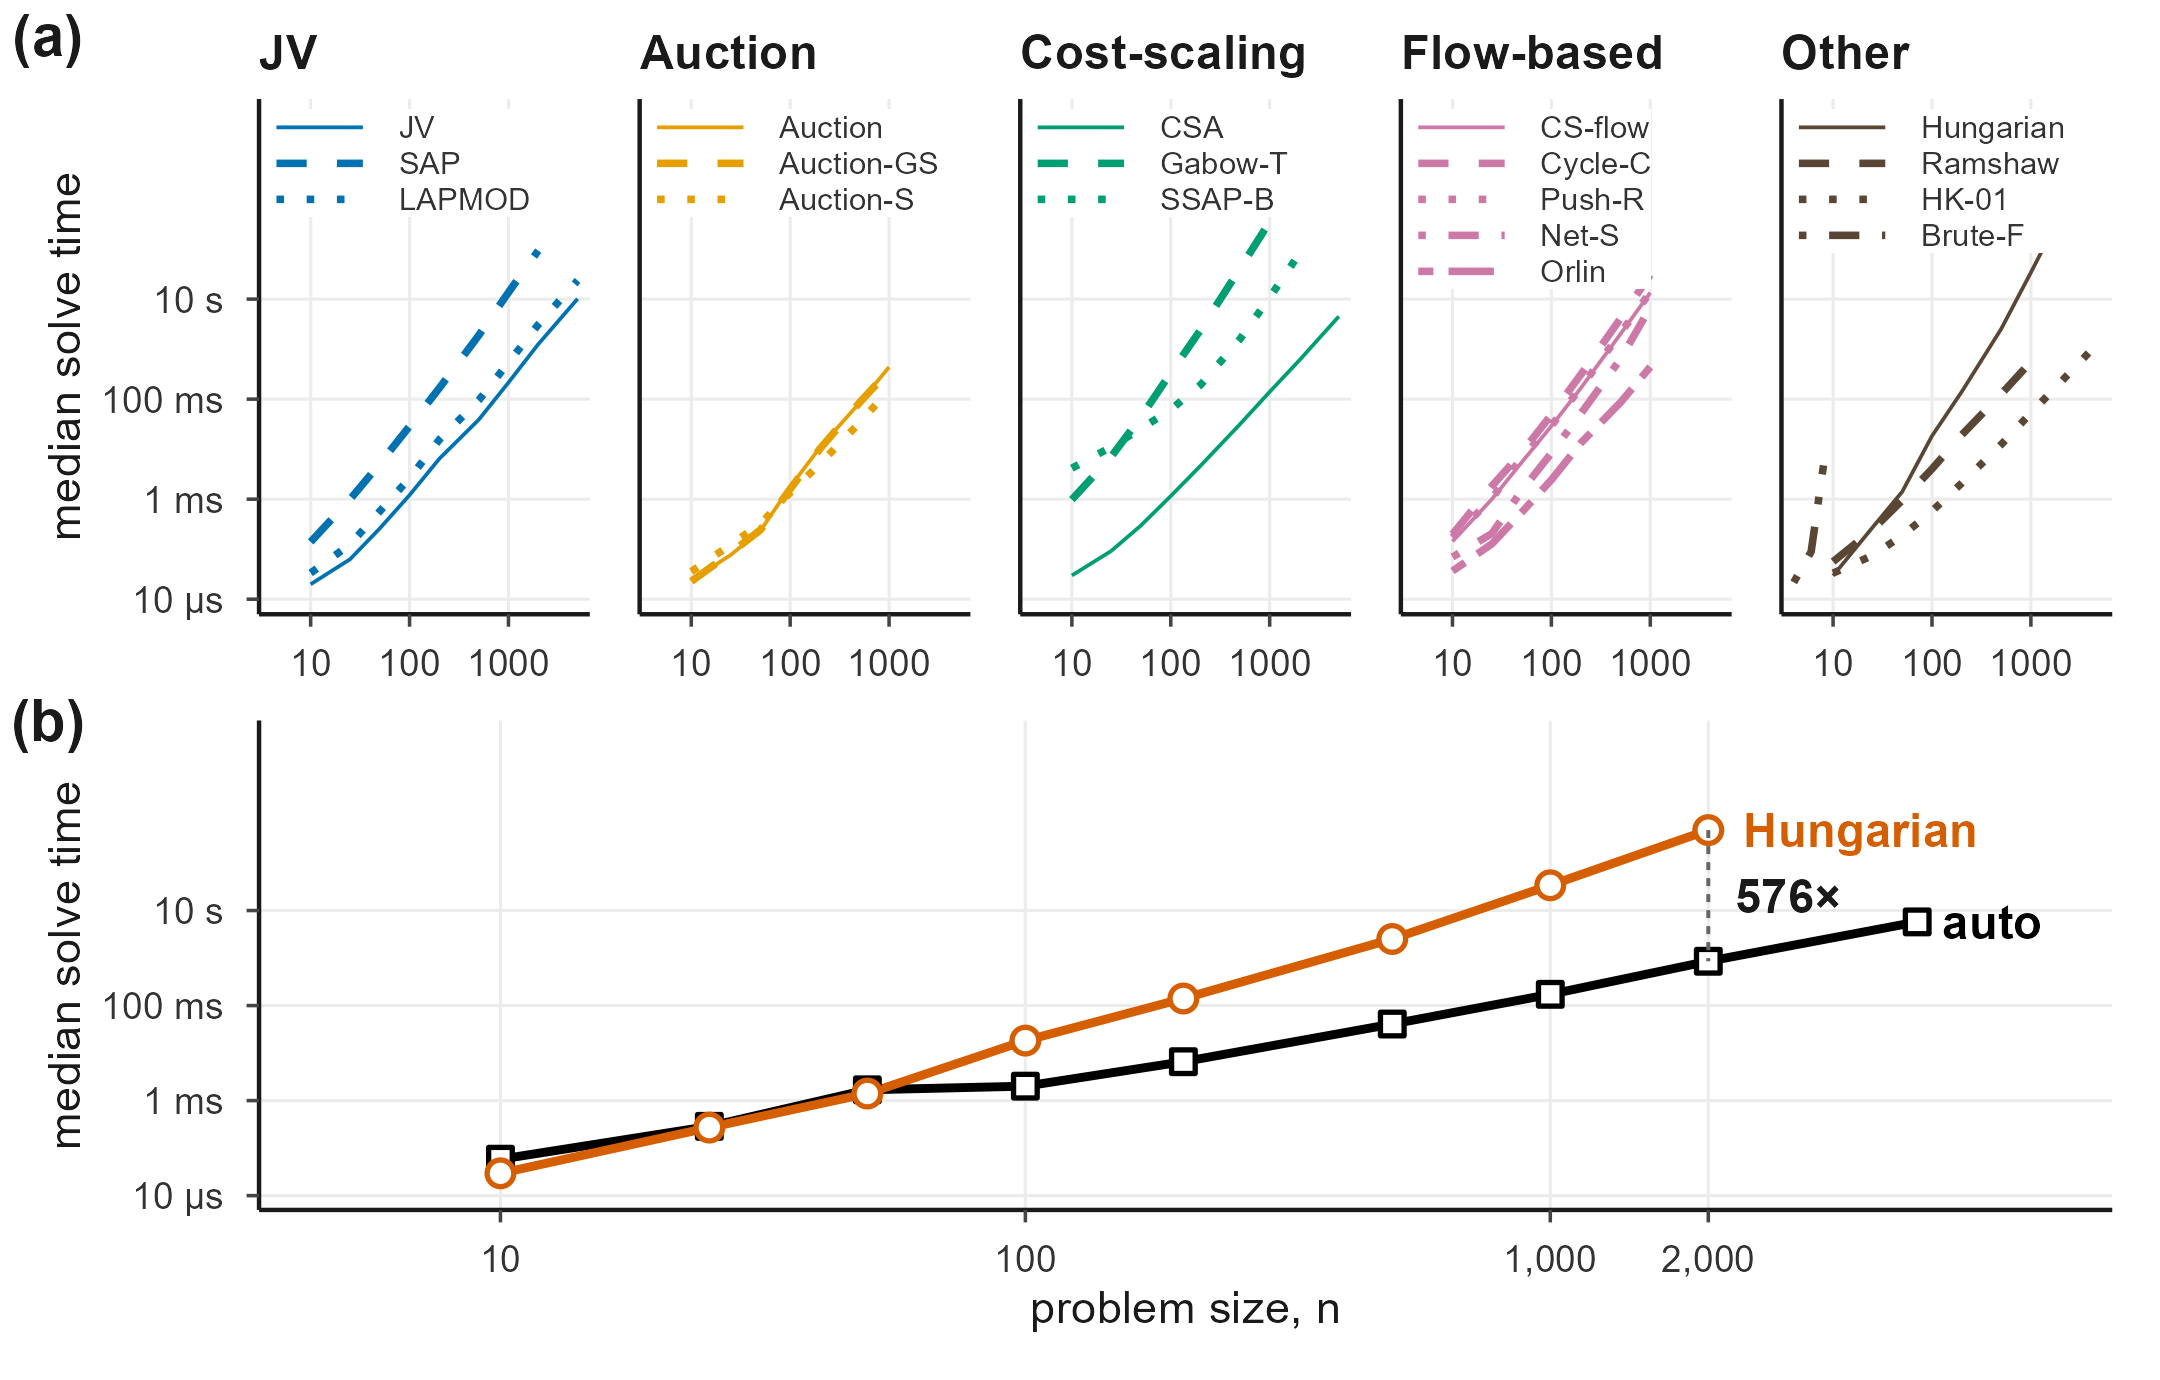
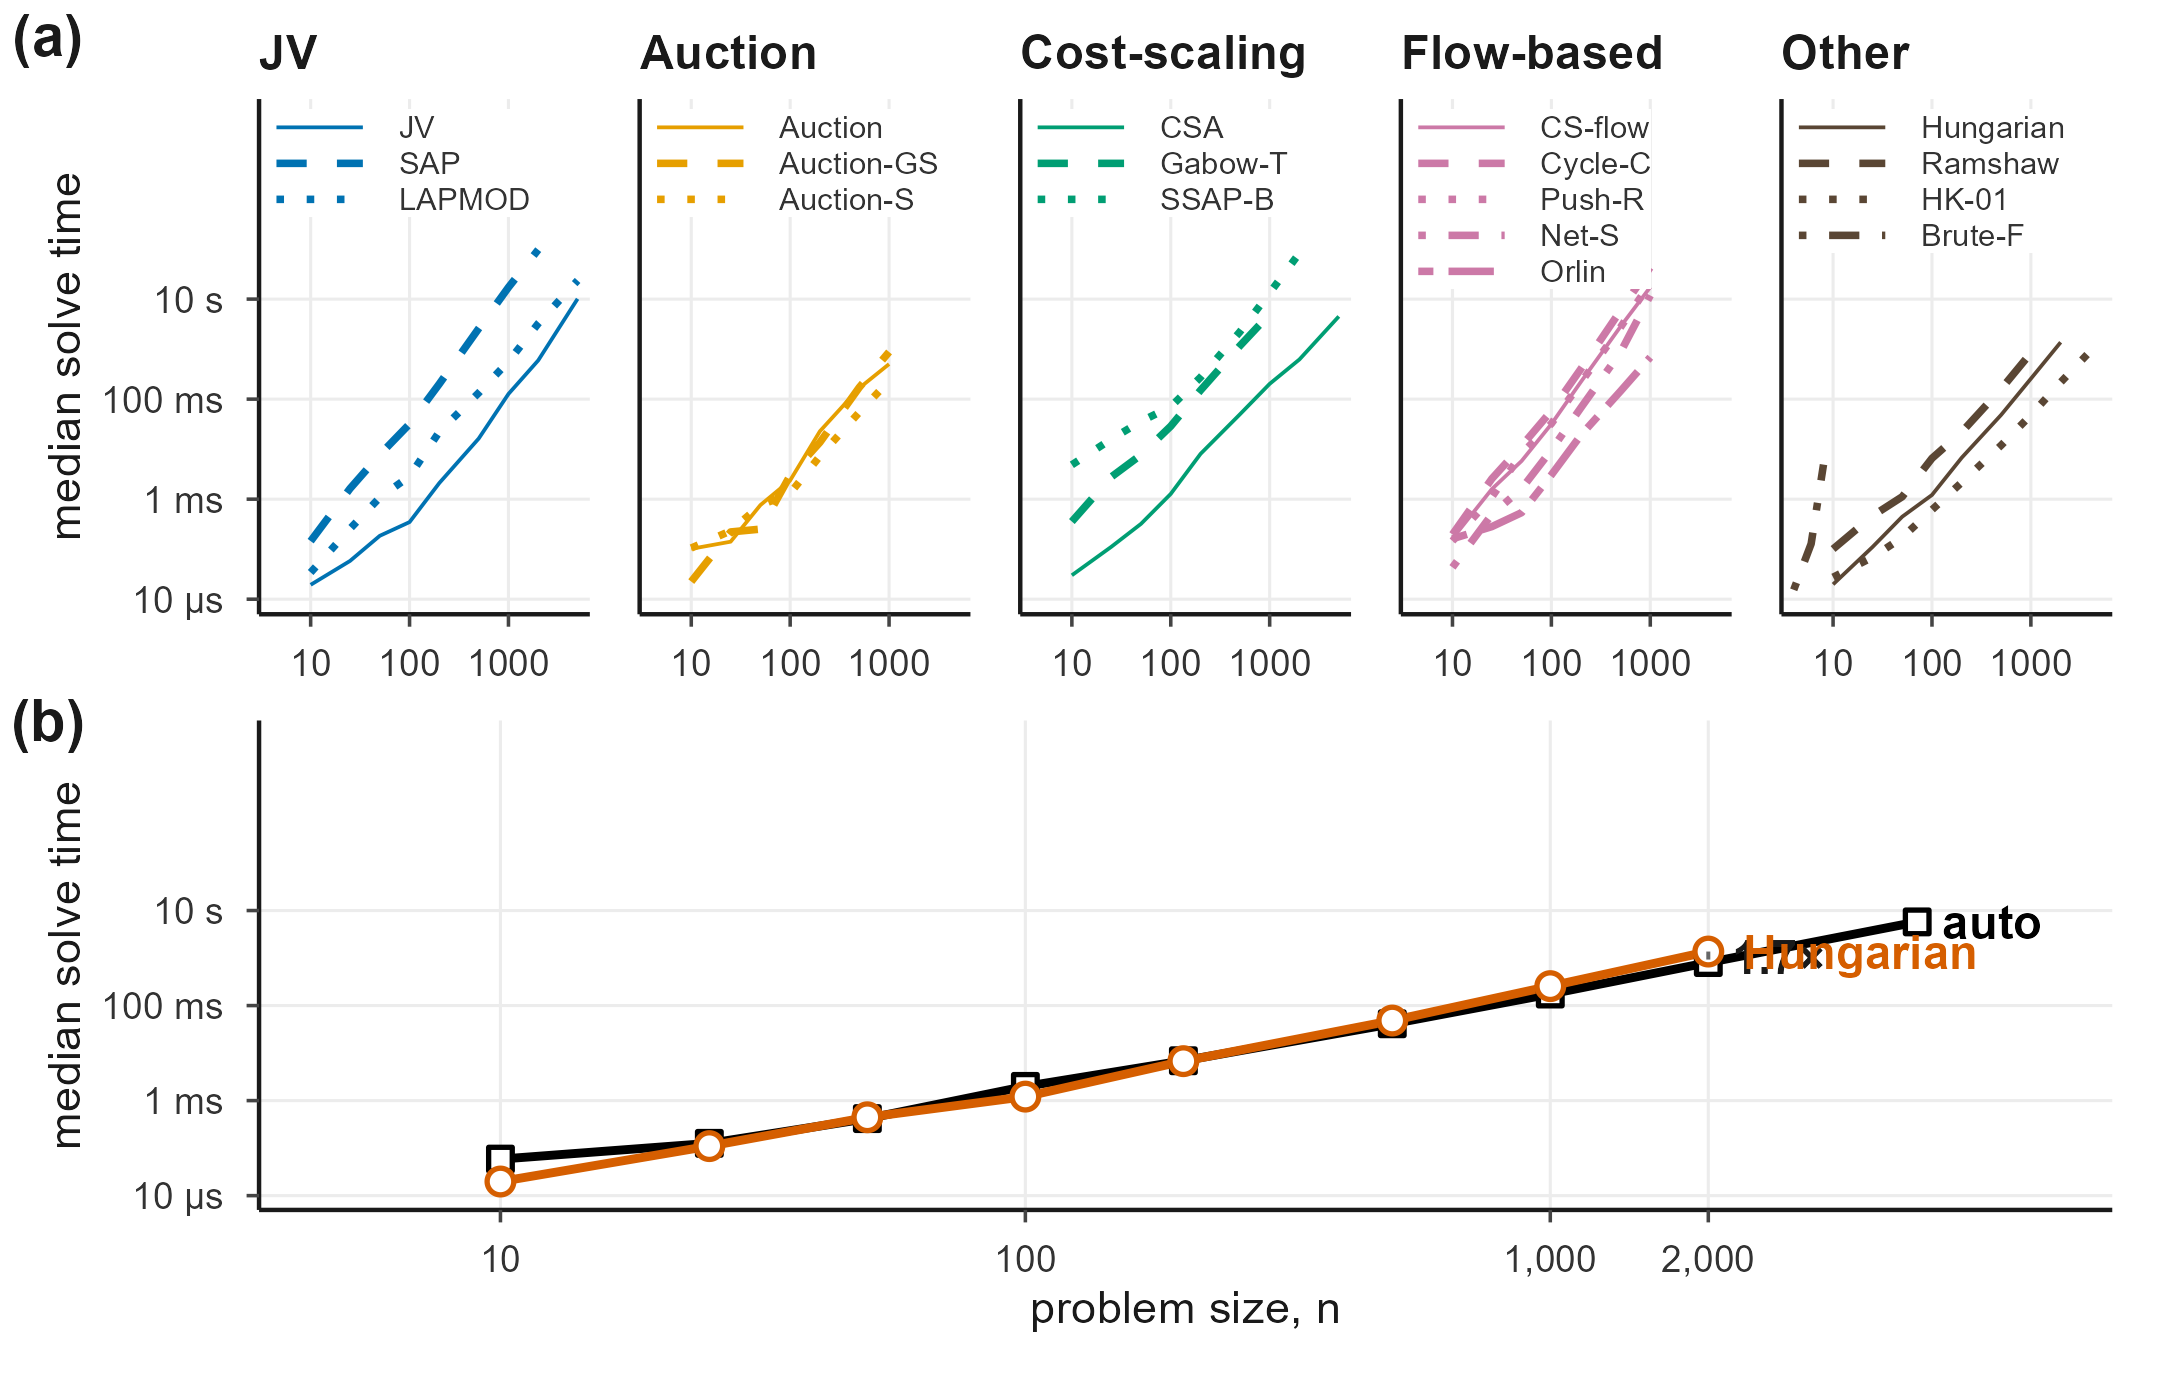
Bump couplr to 1.3.3; refresh n<=2000 benchmarks on current machine
DESCRIPTION 1.3.2 -> 1.3.3. NEWS.md summarises the recent solver
internals: JV/Hungarian/SAP refactor through shared jv_core, LAPJV
warm-start, CSA dual sharing across epsilon-scaling phases, the
auction tie-breaker cache, auction_scaled wrapper collapse, and the
Gabow-Tarjan phase-11 6n pruning.

Benchmark refresh:
- paper/benchmark-table.csv re-measured for n <= 2000 on this CPU.
  Hungarian at n=2000 drops from 493 s (Munkres O(n^4)) to 1.4 s
  (SAP-Hungarian O(n^3)); JV at n=2000 drops from 1.25 s to 0.60 s
  via the LAPJV warm-start. CSA/LAPMOD/SAP/SSAP-B move within noise.
  Larger-n rows are carried over from the previous machine.
- paper/scaling-results.csv re-measured for n_total in {500, 2000}.
  Cross-package numbers (couplr vs optmatch vs MatchIt) are within
  5% of the prior values; the n_total >= 5000 rows are unchanged.
- paper/figures/benchmark.png regenerated from the refreshed table.

A first pass of make-figure.R at n=2000 ran while a stray
testthat::test_local() process was competing for cores; the
contaminated rows were dropped and the n=2000 cells re-measured
on a clean CPU. dev_notes/strip_n2000_clean.R + compile_and_check.R
+ sort_scaling_csv.R + strip_csvs_to_2k.R are the helpers used to
pause/resume the resume-safe benchmark scripts at the 2000 boundary.
dev_notes/step{1..6}_check.R + step4_revert_check.R + step5_n2000.R
+ broad_check.R are the per-step verification scripts that gated
the underlying solver commits.

diff --git a/NEWS.md b/NEWS.md
@@ -1,3 +1,31 @@
+# couplr 1.3.3
+
+## Solver internals
+
+* **Hungarian split into O(n^3) SAP + O(n^4) Munkres.** `method = "hungarian"`
+  now uses the shortest-augmenting-path solver shared with JV; the original
+  O(n^4) Munkres implementation remains available as `method = "munkres"`.
+  At n = 2000 the new Hungarian runs orders of magnitude faster than 1.3.2.
+* **LAPJV warm-start (column reduction + augmenting reduction) added to the
+  JV core for square inputs.** Reduces JV / duals solve time at n >= 500.
+* **CSA shares dual potentials across epsilon-scaling phases.** Removes the
+  cold restart between phases that previously dominated CSA runtime at
+  n >= 500.
+* **Auction tie-breaker tweak cached in `auction` and `auction_gs`.**
+  Cleaner inner loop; no behaviour change.
+* **`solve_auction_scaled` collapsed into a thin wrapper over
+  `scaled_params`** (~200 lines removed); behaviour identical.
+* **Gabow-Tarjan**: bucket-array Step 2 reinstated per the 1989 paper
+  (G&T's `r > bn` pruning is the algorithm, not a wart); added the 6n
+  pruning heuristic from p.9.
+
+## Documentation
+
+* `paper/benchmark-table.csv` and `paper/scaling-results.csv` re-measured
+  on the current development machine for n <= 2000 (per-method table) and
+  n_total <= 2000 (cross-package table). Larger-n rows in both files are
+  carried over from the previous machine and not directly comparable.
+
 # couplr 1.3.2
 
 ## Test infrastructure